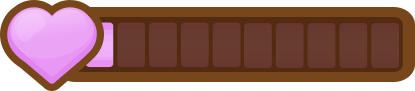
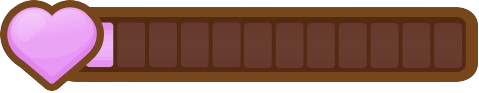
bar level to 12 (UYEN)

diff --git a/demo13.py b/demo13.py
@@ -97,12 +97,12 @@ TILEMAPPING = {
 }
 
 # Thêm vào các thiết lập cho thanh level bar và các nút level
-level_bar_image = load_and_scale_image('ele_level/level_bar.png', 146.5, 30)  # Thanh bar cho level
+level_bar_image = load_and_scale_image('ele_level/level_bar.png', 160.5, 30)  # Thanh bar cho level
 level_buttons = [
-    {'rect': pygame.Rect(5 + i * 11, SCREEN_HEIGHT - 582, 836.9, 20), 
+    {'rect': pygame.Rect(1 + i * 11, SCREEN_HEIGHT - 583, 833.9, 20), 
      'selected': True if i == 0 else False,  # Nút đầu tiên sẽ được chọn
      'visible': True if i == 0 else False}   # Nút đầu tiên sẽ được hiển thị
-    for i in range(9)
+    for i in range(12)
 ] 
 
 current_level_index = 0  # Chỉ số level hiện tại
@@ -343,7 +343,7 @@ def load_map_from_file(level_index):
 
 def load_all_levels():
     levels = []
-    for i in range(10):  # Duyệt qua 10 file từ input-01.txt đến input-10.txt
+    for i in range(13):  # Duyệt qua 10 file từ input-01.txt đến input-10.txt
         levelObj = load_map_from_file(i)
         levels.append({'mapObj': levelObj, 'startState': {'player': (1, 1)}})  # Adjust start position as needed
     return levels
@@ -451,7 +451,7 @@ def run(levels, level_index):
         # Automatically move the player along the path with a 1-second interval between steps
         if current_step < len(path) and not player.is_moving:
             current_time = pygame.time.get_ticks()
-            if (current_time - last_move_time) > 400:  
+            if (current_time - last_move_time) > 100:  
                 direction = path[current_step]
                 if direction == 'u':
                     player.move(UP)
@@ -503,7 +503,7 @@ def main():
     current_level_index = 0
     runLevel(current_level_index, player)
 
-    total_levels = 10  # Number of levels
+    total_levels = 12  # Number of levels
     mapObj = load_map_from_file(current_level_index)
     max_width = max(len(row) for row in mapObj)
     max_height = len(mapObj)
@@ -539,27 +539,30 @@ def main():
                 elif buttons['A*'].collidepoint(event.pos):
                     button_states['A*'] = not button_states['A*']
                     #IMPLEMENT A*
-                    new_game.doSearches(b, 4, True, False)
+                    for i in range(1, 5):
+                        new_game.doSearches(b, i, i == 4)
                     canRun = True
            
 
                 elif buttons['BFS'].collidepoint(event.pos):
                     button_states['BFS'] = not button_states['BFS']
                     #IMPLEMENT BFS
-                    new_game.doSearches(b, 1, True, False)
+                    for i in range(1, 5):
+                        new_game.doSearches(b, i, i == 1)
                     canRun = True
 
                 elif buttons['DFS'].collidepoint(event.pos):
                     button_states['DFS'] = not button_states['DFS']
                     #IMPLEMENT DFS
-                    new_game.doSearches(b, 2, True, False)
+                    for i in range(1, 5):
+                        new_game.doSearches(b, i, i == 2)
                     canRun = True
-                    button_states['DFS'] = ['']
 
                 elif buttons['UCS'].collidepoint(event.pos):
                     button_states['UCS'] = not button_states['UCS']
                     #IMPLEMENT UCS
-                    new_game.doSearches(b, 3, True, False)
+                    for i in range(1, 5):
+                        new_game.doSearches(b, i, i == 3)
                     canRun = True
 
                 elif buttons['Reset'].collidepoint(event.pos):

diff --git a/algorithms/dfs.py b/algorithms/dfs.py
@@ -27,7 +27,7 @@ def replay_solution(start_board, dir_list):
             replay_board.move(dir)
             file.write(replay_board.get_board_as_string() + "\n")   
 
-def search(board, is_selected, is_printed):
+def search(board, is_selected):
     start = time()
     tracemalloc.start()  # Bắt đầu theo dõi bộ nhớ
     nodes_generated = 0
@@ -38,8 +38,7 @@ def search(board, is_selected, is_printed):
         tracemalloc.stop()
         if is_selected:
             replay_solution(board, board.dir_list)
-        if is_printed:
-            print_results(board, 1, end - start, mem_usage)
+        print_results(board, 1, end - start, mem_usage)
         return board
     
     node = deepcopy(board)
@@ -62,8 +61,7 @@ def search(board, is_selected, is_printed):
                 tracemalloc.stop()
                 if is_selected:
                     replay_solution(board, child.dir_list)
-                if is_printed:
-                    print_results(child, nodes_generated, end - start, mem_usage)
+                print_results(child, nodes_generated, end - start, mem_usage)
                 return child
             if not child.is_deadlock() and (tuple(child.stones), child.player) not in reached:
                 frontier.append(child)

diff --git a/algorithms/bfs.py b/algorithms/bfs.py
@@ -28,7 +28,7 @@ def replay_solution(start_board, dir_list):
             replay_board.move(dir)
             file.write(replay_board.get_board_as_string() + "\n")  
 
-def search(board, is_selected, is_printed):
+def search(board, is_selected):
     start = time()
     tracemalloc.start()  # Bắt đầu theo dõi bộ nhớ
     nodes_generated = 0
@@ -39,8 +39,7 @@ def search(board, is_selected, is_printed):
         tracemalloc.stop()
         if is_selected:
             replay_solution(board, board.dir_list)
-        if is_printed:
-            print_results(board, 1, end - start, mem_usage)
+        print_results(board, 1, end - start, mem_usage)
         return board
     
     node = deepcopy(board)
@@ -64,8 +63,7 @@ def search(board, is_selected, is_printed):
                 tracemalloc.stop()
                 if is_selected:
                     replay_solution(board, child.dir_list)
-                if is_printed:
-                    print_results(child, nodes_generated, end - start, mem_usage)
+                print_results(child, nodes_generated, end - start, mem_usage)
                 return child
             if not child.is_deadlock() and (tuple(child.stones), child.player) not in reached:
                 frontier.append(child)

diff --git a/manager/game.py b/manager/game.py
@@ -42,15 +42,15 @@ class Game:
             Board.configure(output_name = file_name, weights_list = weights, row_count = len(lines), col_count =  max([len(line) for line in lines]), switches_list = switches, walls_set = walls)                
             return b
 
-    def doSearches(self, board, algorithm, is_selected, is_printed):
+    def doSearches(self, board, algorithm, is_selected):
         if algorithm == 1:
-            bfs(board, is_selected, is_printed)
+            bfs(board, is_selected)
         if algorithm == 2:
-            dfs(board, is_selected, is_printed)
+            dfs(board, is_selected)
         if algorithm == 3:
-            ucs(board, is_selected, is_printed)
+            ucs(board, is_selected)
         if algorithm == 4:
-            astar(board, is_selected, is_printed)
+            astar(board, is_selected)
 
     def run(self):
         print("Which algorithm?")
@@ -66,5 +66,5 @@ class Game:
         print('\nSolving ' + file_name + '...\n')
         for i in range(4, 5):
             b = self.new_board(file_name)
-            self.doSearches(b, i, i == option, True)
+            self.doSearches(b, i, i == option)
     

diff --git a/algorithms/ucs.py b/algorithms/ucs.py
@@ -28,7 +28,7 @@ def replay_solution(start_board, dir_list):
             replay_board.move(dir)
             file.write(replay_board.get_board_as_string() + "\n")  
 
-def search(board, is_selected, is_printed):
+def search(board, is_selected):
     start = time()
     tracemalloc.start()
     nodes_generated = 0
@@ -39,8 +39,7 @@ def search(board, is_selected, is_printed):
         tracemalloc.stop()
         if is_selected:
             replay_solution(board, board.dir_list)
-        if is_printed:
-            print_results(board, 1, 0, 0, 1, end - start, mem_usage)
+        print_results(board, 1, 0, 0, 1, end - start, mem_usage)
         return board
     
     node = deepcopy(board)
@@ -59,8 +58,7 @@ def search(board, is_selected, is_printed):
             tracemalloc.stop()
             if is_selected:
                 replay_solution(board, cur_node.dir_list)
-            if is_printed:
-                print_results(cur_node, nodes_generated, end - start, mem_usage)
+            print_results(cur_node, nodes_generated, end - start, mem_usage)
             return cur_node
                 
         moves = cur_node.moves_available()

diff --git a/algorithms/astar.py b/algorithms/astar.py
@@ -256,7 +256,7 @@ def replay_solution(start_board, dir_list):
             file.write(replay_board.get_board_as_string() + "\n")
             
 
-def search(board, is_selected, is_printed):
+def search(board, is_selected):
     start = time()
     tracemalloc.start()
     nodes_generated = 0
@@ -277,6 +277,5 @@ def search(board, is_selected, is_printed):
         tracemalloc.stop()
         if is_selected:
             replay_solution(board, move)
-        if is_printed:
-            print_results(cost, gen, end - start, mem_usage, move)
+        print_results(cost, gen, end - start, mem_usage, move)
     return
